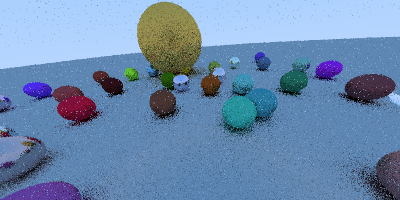
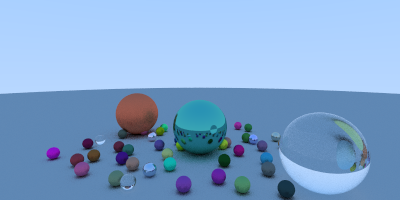
add random balls and camera setting

diff --git a/Assets/Editor/raytracing.cs b/Assets/Editor/raytracing.cs
@@ -667,21 +667,34 @@ namespace SimpleRT
         #endregion
         #region 第12 随机球大场景
         Color[] CreateColorForTestRandomBalls(int width, int height)
-        {
-            //视锥体的左下角、长宽和起始扫射点设定
-            Vector3 lowLeftCorner = new Vector3(-2, -1, -1);
+        {   
+            // 在simpleCamer中视锥体的左下角、长宽和起始扫射点设定
+            // Vector3 lowLeftCorner = new Vector3(-2, -1, -3);
+            // 对于camera 视锥体的大小由lookAt 和 lookFrom 决定
+
             Vector3 horizontal = new Vector3(4, 0, 0);
             Vector3 vertical = new Vector3(0, 2, 0);
             Vector3 original = new Vector3(0, 0, 0);
+            //在simpleCamera 中的摄像机的光线出发点一般就是origin
+            //但是Camera中的ray出发点是 lookFrom
+
             int l = width * height;
             //这里注释的两句话是随机场景渲染用的……
-            //三个大球的位置 (0, 1, 0)  (-4, 1, 0)  (4, 1, 0)
+            //三个大球的位置 金属球(0, 1, 0)  漫反射(-4, 1, 0)  玻璃球(4, 1, 0) 且半径都是1
             HitableList hitableList = _M.CreateRandomScene();
             Color[] colors = new Color[l];
-            Vector3 from = new Vector3(0, 1, 0);
-            Vector3 to = new Vector3(10, 7f, -2);
 
-            Camera camera = new Camera(from, to, new Vector3(3, 10, 0), 90, width / height);
+            // from(0 1 0) to(10 1 0) 和 from(0 1 0) to (1 1 0) 理论上效果一样？Yes            
+            // from(0 1 0) to (1 1 0) 和 from(2 1 0) to (3 1 0) 理论上效果一样？Yes
+            // from(2.5f, 1, -6) to(2.5f, 1, 6)应该可以看到3个球？ Yes
+            // from(2.5f, 3, -3) to(-5, 1, 3) //视野范围3的话(3+3)其实还不够  有交大形变
+            // 所以后面采用了6
+            Vector3 from = new Vector3(5f, 3, -6);
+            Vector3 to = new Vector3(-5, 1, 6);
+
+
+            // vup 这里并不是摄像头的位置 // vup 是用来控制摄像头围绕lookup的方向旋转的
+            Camera camera = new Camera(from, to, new Vector3(0, 30, 0), 50, width / height);
             //Camera camera = new Camera(from, to, Vector3.up, 35, width / height);
             float recip_width = 1f / width;
             float recip_height = 1f / height;
@@ -690,12 +703,12 @@ namespace SimpleRT
                 for (int i = 0; i < width; i++)
                 {
                     Color color = new Color(0, 0, 0);
-                    for (int s = 0; s < SAMPLE / 33; s++)
+                    for (int s = 0; s < SAMPLE; s++)
                     {
                         Ray r = camera.CreateRay((i + _M.R()) * recip_width, (j + _M.R()) * recip_height);
                         color += GetColorForTestCamera(r, hitableList, 0);
                     }
-                    color *= SAMPLE_WEIGHT * 33;
+                    color *= SAMPLE_WEIGHT;
                     //为了使球体看起来更亮，改变gamma值
                     color = new Color(Mathf.Sqrt(color.r), Mathf.Sqrt(color.g), Mathf.Sqrt(color.b), 1f);
                     color.a = 1f;
@@ -844,8 +857,8 @@ namespace SimpleRT
             position = lookFrom;
 
             // w u v 的含义在书中有图片说明
-            //w = (lookat - lookFrom).normalized;// 在书中用的 lookFrom - lookat
-            w = (lookFrom - lookat).normalized;
+            w = (lookat - lookFrom).normalized;// 在书中用的 lookFrom - lookat
+            // w = (lookFrom - lookat).normalized;
             u = Vector3.Cross(vup, w).normalized;
             v = Vector3.Cross(w, u).normalized;
             lowLeftCorner = lookFrom + w * focus_dist - halfWidth * u * focus_dist - halfHeight * v * focus_dist;
@@ -959,9 +972,9 @@ namespace SimpleRT
                             list.list.Add(new Sphere(center, 0.2f, new Dielectirc(1.5f)));
                     }
                 }
-            list.list.Add(new Sphere(new Vector3(0, 1, 0), 1, new Dielectirc(1.5f)));
-            list.list.Add(new Sphere(new Vector3(-4, 1, 0), 1, new Lambertian(new Color(0.9f, 0.5f, 0.1f))));
-            list.list.Add(new Sphere(new Vector3(4, 1, 0), 1, new Metal(new Color(0.7f, 0.6f, 0.5f), 0.01f)));
+            list.list.Add(new Sphere(new Vector3(0, 1, 0), 1, new Metal(new Color(0.1f, 0.6f, 0.5f), 0.01f)));
+            list.list.Add(new Sphere(new Vector3(-4, 1, 0), 1, new Lambertian(new Color(0.9f, 0.2f, 0.1f))));
+            list.list.Add(new Sphere(new Vector3(4, 1, 0), 1, new Dielectirc(1.5f)));
             return list;
         }
 
